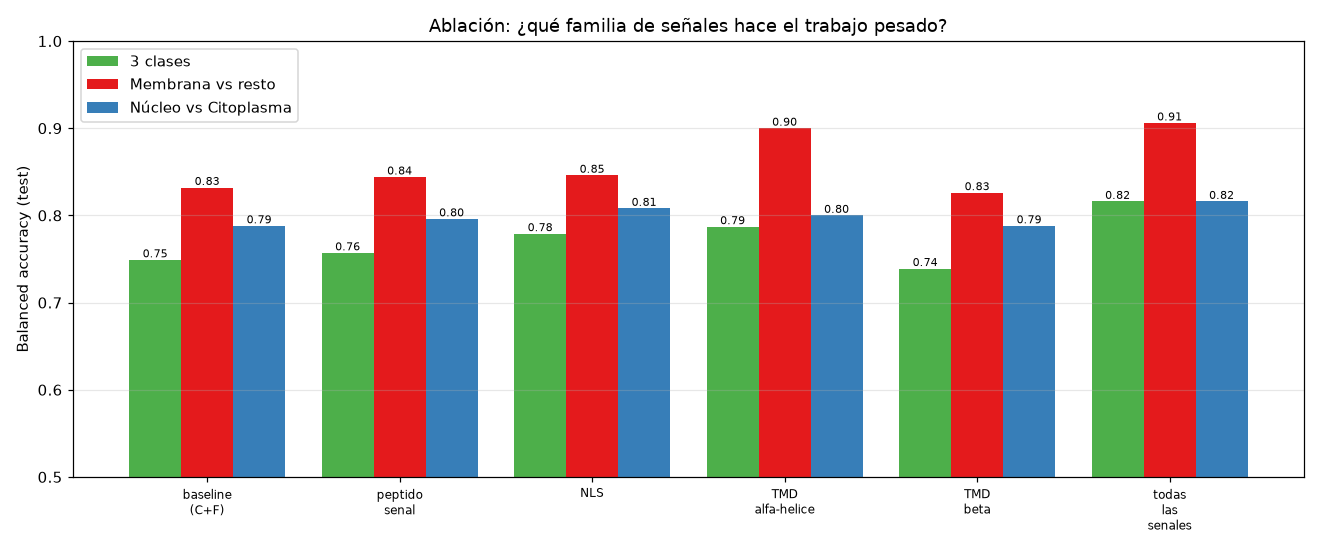
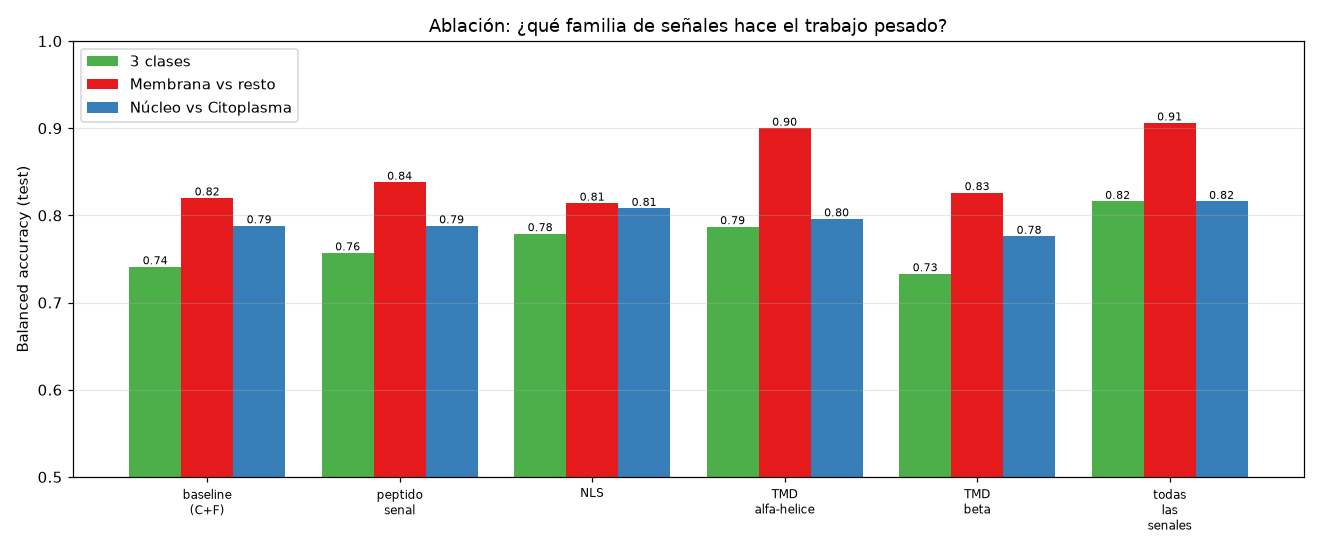
mejoro parametros del Random Forest para que no sobreajuste

diff --git a/data/03_experimentos.py b/data/03_experimentos.py
@@ -19,6 +19,10 @@ Los TRES experimentos que se usan en clase:
   3. Ablación de señales: qué familia hace el trabajo pesado (péptido señal,
      NLS, TMD alfa-hélice, TMD beta).
 
+El Random Forest va regularizado (min_samples_leaf=10, max_depth=8,
+min_samples_split=10, max_leaf_nodes=16): sin límites memorizaba el train
+(F1=1.000) y la brecha train-test era ~0.21-0.28.
+
 El pool se cachea en este directorio (data/*.csv está gitignoreado).
 
 Uso:
@@ -79,10 +83,16 @@ CLASES3 = {
     "Membrane": "KW-0472",
 }
 
+# Random Forest regularizado: al limitar profundidad/hojas y exigir un mínimo de
+# muestras por hoja se reduce mucho el overfitting (antes memorizaba el train).
+RF_PARAMS = dict(n_estimators=300, random_state=SEED, n_jobs=1,
+                 min_samples_leaf=10, max_depth=8, min_samples_split=10,
+                 max_leaf_nodes=16)
+
 MODELOS = {
     "LogReg": make_pipeline(StandardScaler(), LogisticRegression(max_iter=3000)),
     "SVM": make_pipeline(StandardScaler(), SVC(cache_size=1000)),
-    "RandomForest": RandomForestClassifier(300, random_state=SEED, n_jobs=1),
+    "RandomForest": RandomForestClassifier(**RF_PARAMS),
 }
 
 
@@ -230,7 +240,7 @@ def exp_overfitting(train, test):
     }
     modelos = {
         "LogReg": make_pipeline(StandardScaler(), LogisticRegression(max_iter=3000)),
-        "RandomForest": RandomForestClassifier(300, random_state=SEED, n_jobs=1),
+        "RandomForest": RandomForestClassifier(**RF_PARAMS),
     }
     filas = []
     for n in TAMANOS_POR_CLASE:

diff --git a/README.md b/README.md
@@ -142,21 +142,28 @@ overfitting, curse of dimensionality y ablación de señales. Datos crudos:
 
 ### Overfitting y "curse of dimensionality"
 
-**Overfitting = F1 en el train (resustitución) menos F1 en el test.** Con Logistic Regression:
+**Overfitting = F1 en el train (resustitución) menos F1 en el test.** Con Logistic Regression y
+con un Random Forest **regularizado** (`min_samples_leaf=10`, `max_depth=8`,
+`min_samples_split=10`, `max_leaf_nodes=16`):
 
-| Representación | F1 train (n=250) | F1 test (n=250) | brecha | F1 train (n=3000) | F1 test (n=3000) | brecha |
-|---|---|---|---|---|---|---|
-| Composición (33) | 0.744 | 0.723 | 0.020 | 0.693 | 0.722 | -0.030 |
-| Dipéptidos (413) | **1.000** | 0.656 | **0.344** | 0.825 | 0.710 | 0.115 |
-| Señales (44) | 0.832 | 0.790 | 0.042 | 0.768 | 0.787 | -0.019 |
+| Representación | Modelo | F1 train (n=250) | F1 test (n=250) | brecha | F1 train (n=3000) | F1 test (n=3000) | brecha |
+|---|---|---|---|---|---|---|---|
+| Composición (33) | LogReg | 0.744 | 0.723 | 0.020 | 0.693 | 0.722 | -0.030 |
+| Dipéptidos (413) | LogReg | **1.000** | 0.656 | **0.344** | 0.825 | 0.710 | 0.115 |
+| Señales (44) | LogReg | 0.832 | 0.790 | 0.042 | 0.768 | 0.787 | -0.019 |
+| Composición (33) | RF regularizado | 0.825 | 0.703 | 0.121 | 0.721 | 0.725 | -0.004 |
+| Dipéptidos (413) | RF regularizado | 0.928 | 0.711 | 0.217 | 0.742 | 0.710 | 0.032 |
+| Señales (44) | RF regularizado | 0.840 | 0.749 | 0.091 | 0.773 | 0.767 | 0.006 |
 
 ![Overfitting](img/overfitting.png)
 
-- Los dipéptidos **memorizan** el train a n=250 (F1 1.000) y caen a 0.656 en test: overfitting
-  clásico. Más datos reducen la brecha (0.344 → 0.115 a n=3000).
-- Composición y señales casi no overfitean (brecha ≈ 0): pocas features informativas.
-- Con Random Forest (figura, panel derecho) el F1 de train es ~1.000 siempre, y también se ve la
-  brecha.
+- Los dipéptidos **memorizan** el train a n=250 (LogReg F1 1.000) y caen a 0.656 en test:
+  overfitting clásico. Más datos reducen la brecha (0.344 → 0.115 a n=3000).
+- **Regularizar el Random Forest funciona:** sin límites memorizaba (train = 1.000, brecha
+  ~0.21-0.28); con estos parámetros la brecha baja a 0.09-0.22 (n=250) y ~0.01 (n=3000).
+- Es el mismo tradeoff sesgo-varianza: se recorta el train y se pierden 1-3 puntos de test
+  (p. ej. señales 0.794 → 0.767 a n=3000). No aparece un modelo mejor, sino uno más honesto.
+- Composición y señales con LogReg casi no overfitean (brecha ≈ 0): pocas features informativas.
 
 **La curse of dimensionality** se ve fijando pocas muestras y agregando features: el F1 de train
 sube hacia 1 mientras el de test se estanca. Con n=250 y cada vez más dipéptidos (ordenados por
@@ -181,21 +188,21 @@ train=3000, test reservado):
 
 | Variante (+ C+F) | Features extra | 3 clases | Membrana vs resto | Núcleo vs Citoplasma |
 |---|---|---|---|---|
-| baseline | 0 | 0.749 | 0.832 | 0.788 |
-| péptido señal | 3 | 0.757 | 0.844 | 0.796 |
-| NLS | 5 | 0.779 | 0.846 | 0.808 |
-| **TMD alfa-hélice** | 2 | **0.787** | **0.900** | 0.800 |
-| TMD beta | 1 | 0.739 | 0.826 | 0.788 |
+| baseline | 0 | 0.741 | 0.820 | 0.788 |
+| péptido señal | 3 | 0.757 | 0.838 | 0.788 |
+| NLS | 5 | 0.779 | 0.814 | 0.808 |
+| **TMD alfa-hélice** | 2 | **0.787** | **0.900** | 0.796 |
+| TMD beta | 1 | 0.733 | 0.826 | 0.776 |
 | todas | 11 | **0.816** | **0.906** | **0.816** |
 
 ![Ablación de señales](img/ablacion_senales.png)
 
-- **TMD alfa-hélice hace el trabajo pesado** para separar Membrana (0.832 → 0.900) y es la
-  familia que más sube el desempeño global (con sólo 2 features, +0.038).
+- **TMD alfa-hélice hace el trabajo pesado** para separar Membrana (0.820 → 0.900) y es la
+  familia que más sube el desempeño global (con sólo 2 features, +0.046).
 - **NLS** es la única que mueve la aguja en el par más difícil, Núcleo vs Citoplasma
   (0.788 → 0.808), y también aporta al global.
 - **Péptido señal** ayuda a Membrana, pero menos que el TMD.
-- **TMD beta no aporta nada** (0.739, igual o peor que el baseline): los beta-barriles son raros
+- **TMD beta no aporta nada** (0.733, igual o peor que el baseline): los beta-barriles son raros
   en humano y la heurística no los captura.
 - Las tres familias juntas superan a cualquiera sola (0.816): son complementarias.
 

diff --git a/data/README.md b/data/README.md
@@ -31,7 +31,9 @@ que el entrenamiento nunca ve**:
 
 Los tres experimentos que se usan en clase (el resto se recortó para que entren en 4 h):
 
-1. **Overfitting:** F1 en train (resustitución) vs F1 en test; la brecha es el overfitting.
+1. **Overfitting:** F1 en train (resustitución) vs F1 en test; la brecha es el overfitting. El
+   Random Forest va regularizado (`min_samples_leaf=10`, `max_depth=8`, `min_samples_split=10`,
+   `max_leaf_nodes=16`): sin límites memorizaba el train (F1 1.000) y la brecha era ~0.21-0.28.
 2. **Curse of dimensionality:** con n fija se agregan features; F1_train sube, F1_test se estanca.
 3. **Ablación de señales:** ¿qué familia hace el trabajo pesado? Péptido señal, NLS, TMD
    alfa-hélice y TMD beta, una por vez.
